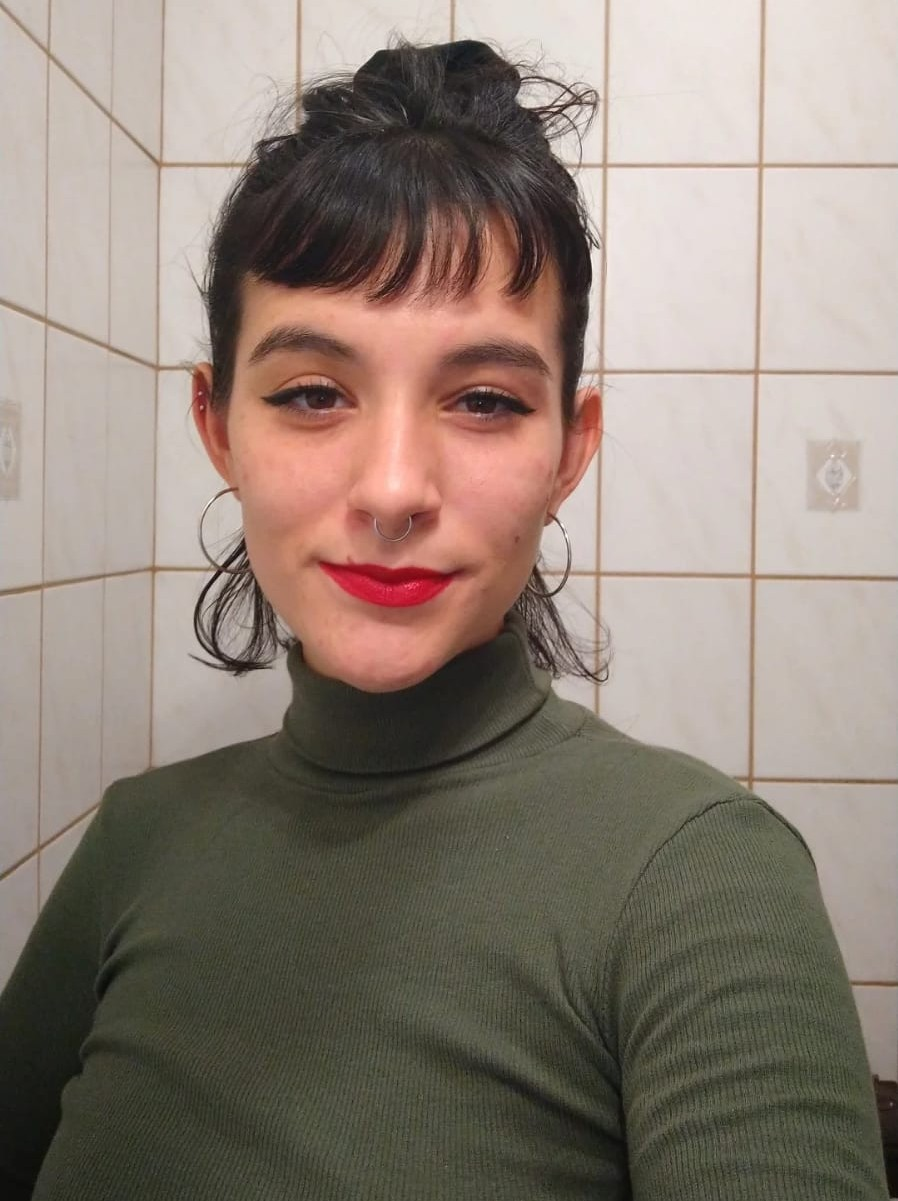
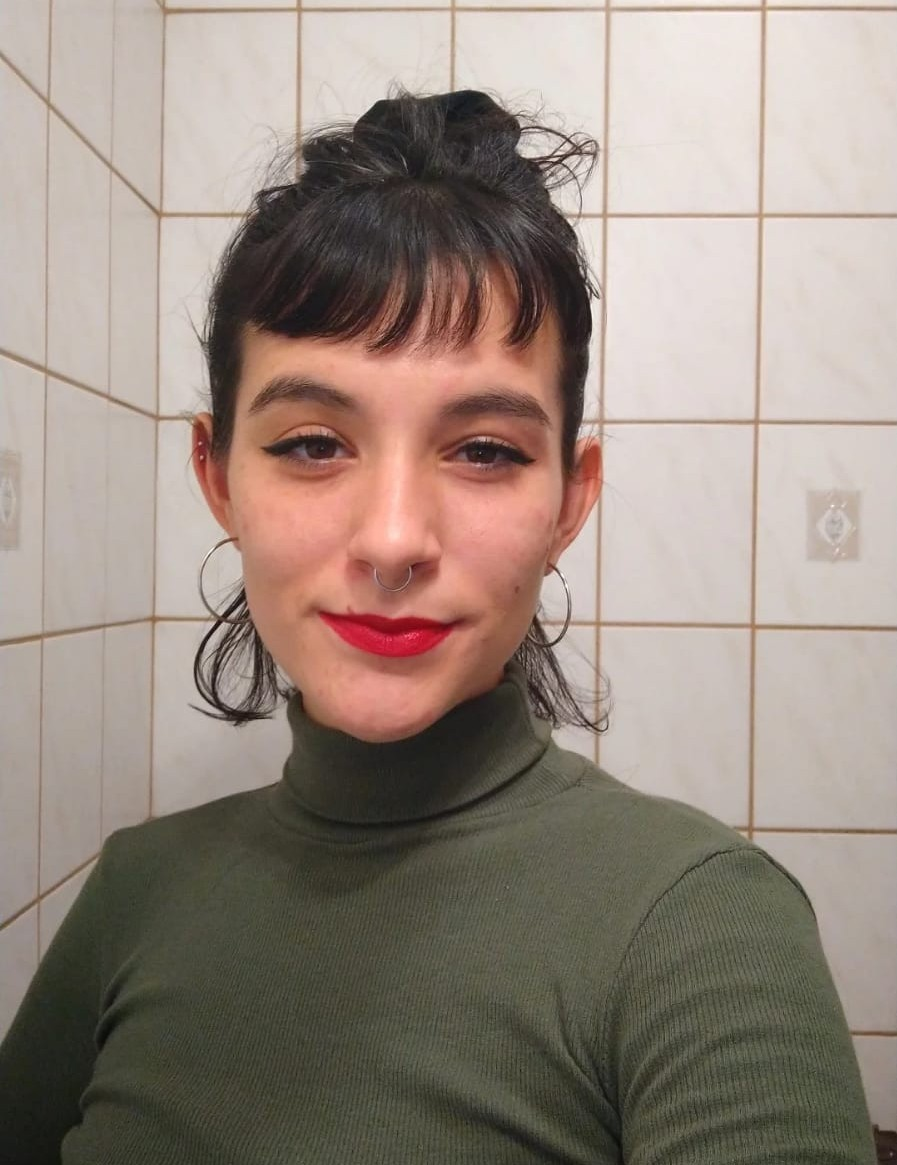
Ajustando imagens

diff --git a/style.css b/style.css
@@ -1,6 +1,6 @@
 body{
     text-align: center;
-    background-image: url(./img/pexels-alex-azabache-3879070.jpg);
+    background-image: url(./img/pexels-francesco-ungaro-2325446.jpg);
     background-size: cover;
     font-family: 'Indie Flower', cursiva;
     padding: 50px 200px;
@@ -18,9 +18,9 @@ body{
 
 .foto_perfil{
     width: 250px;
-    height: 300px;
+    height: 320px;
     border-radius: 20px;
-    border: 2px solid rgba(67, 65, 65, 0.7);
+    border: 3px solid rgba(67, 65, 65, 0.7);
     margin: 20px;
 }
 
